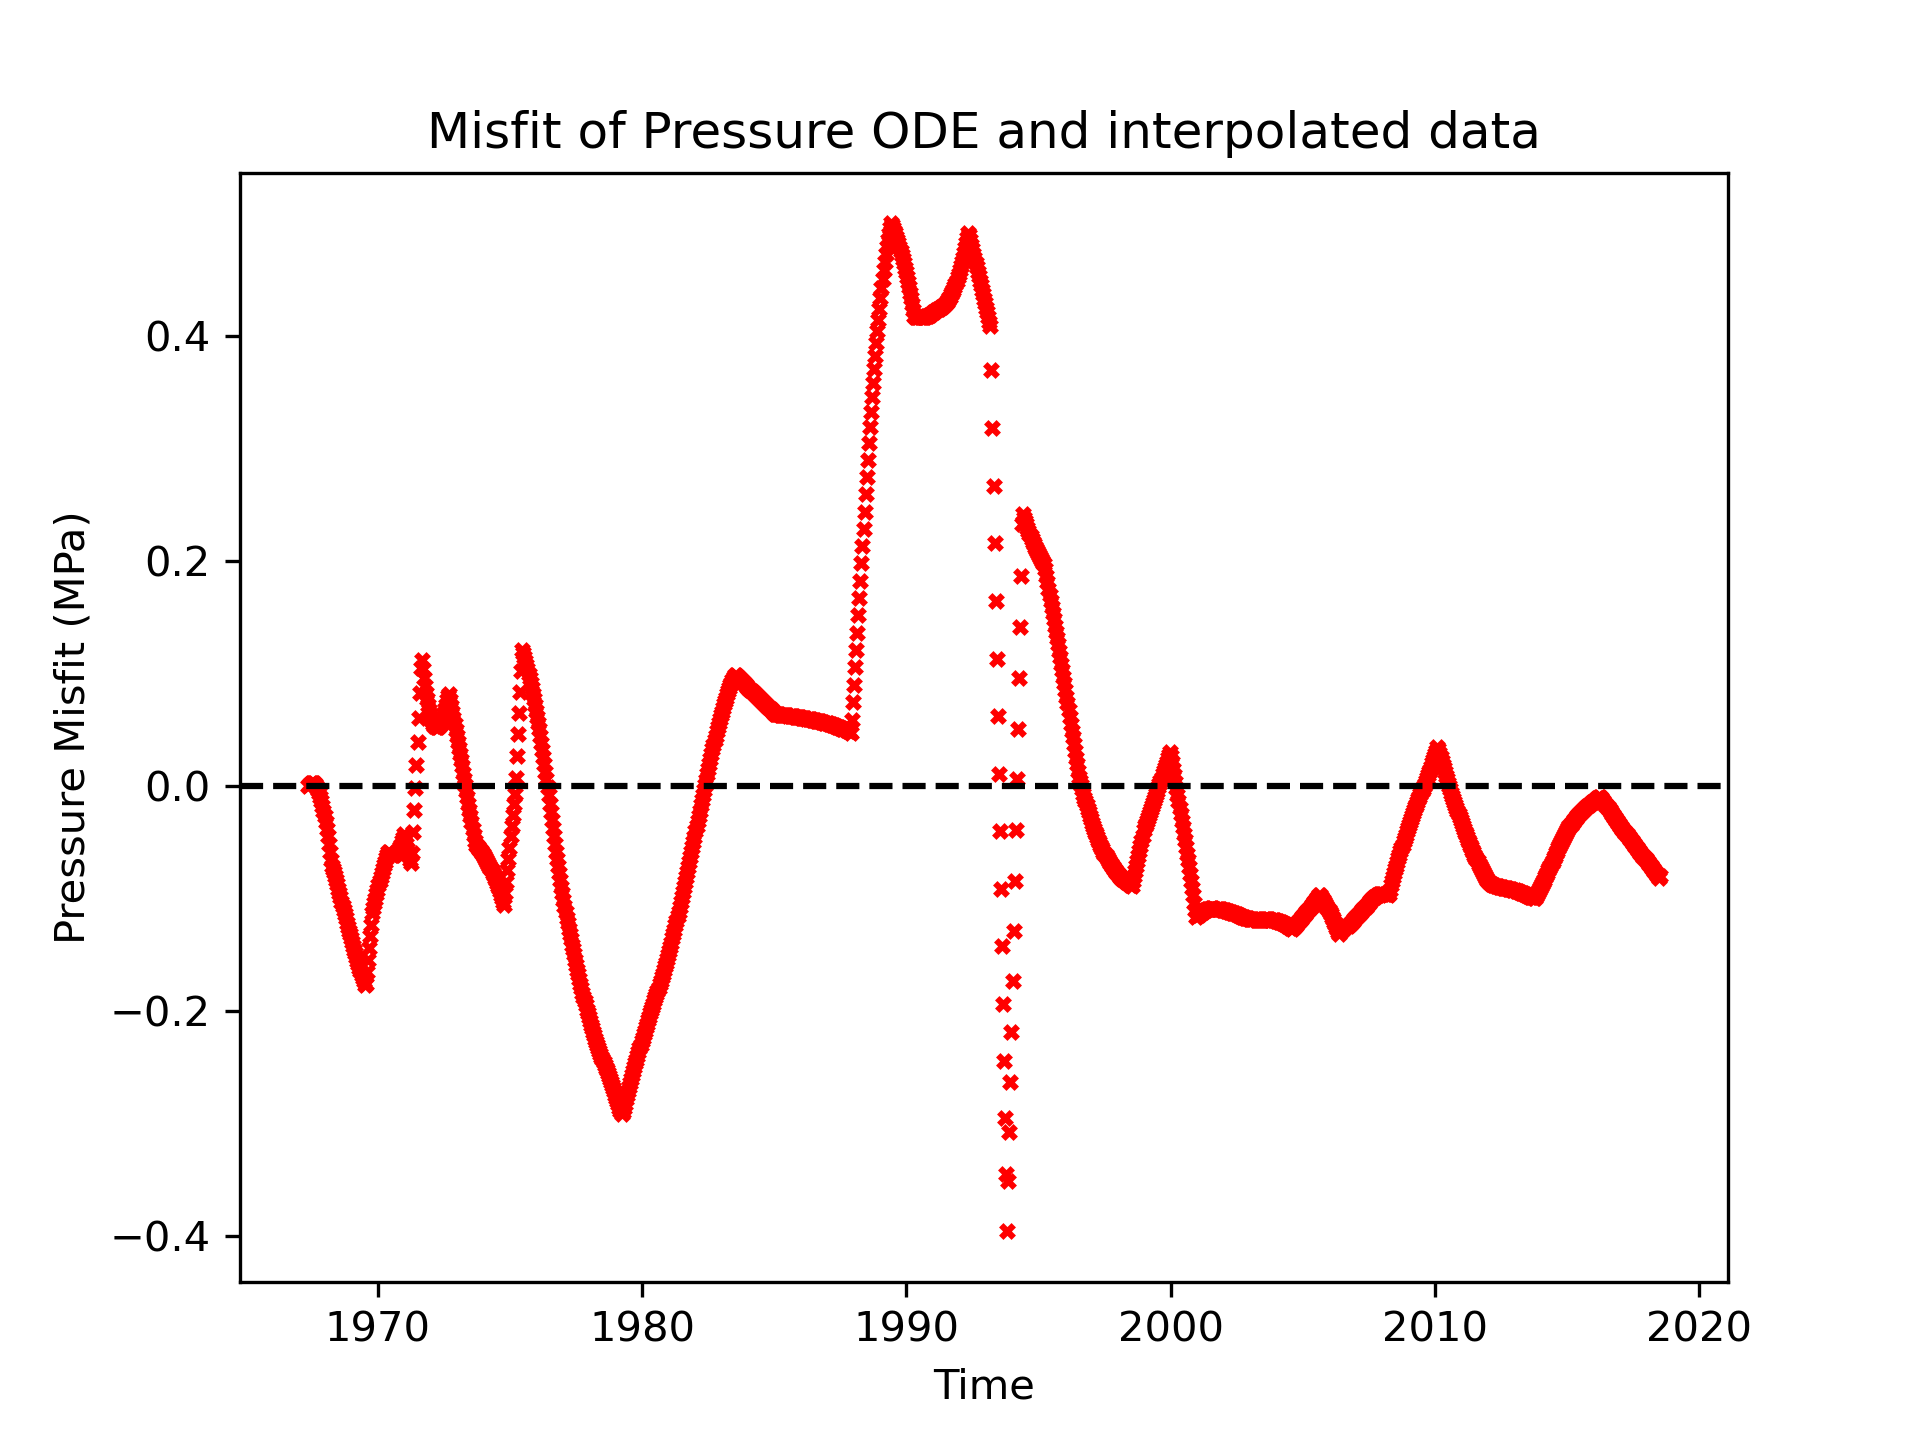
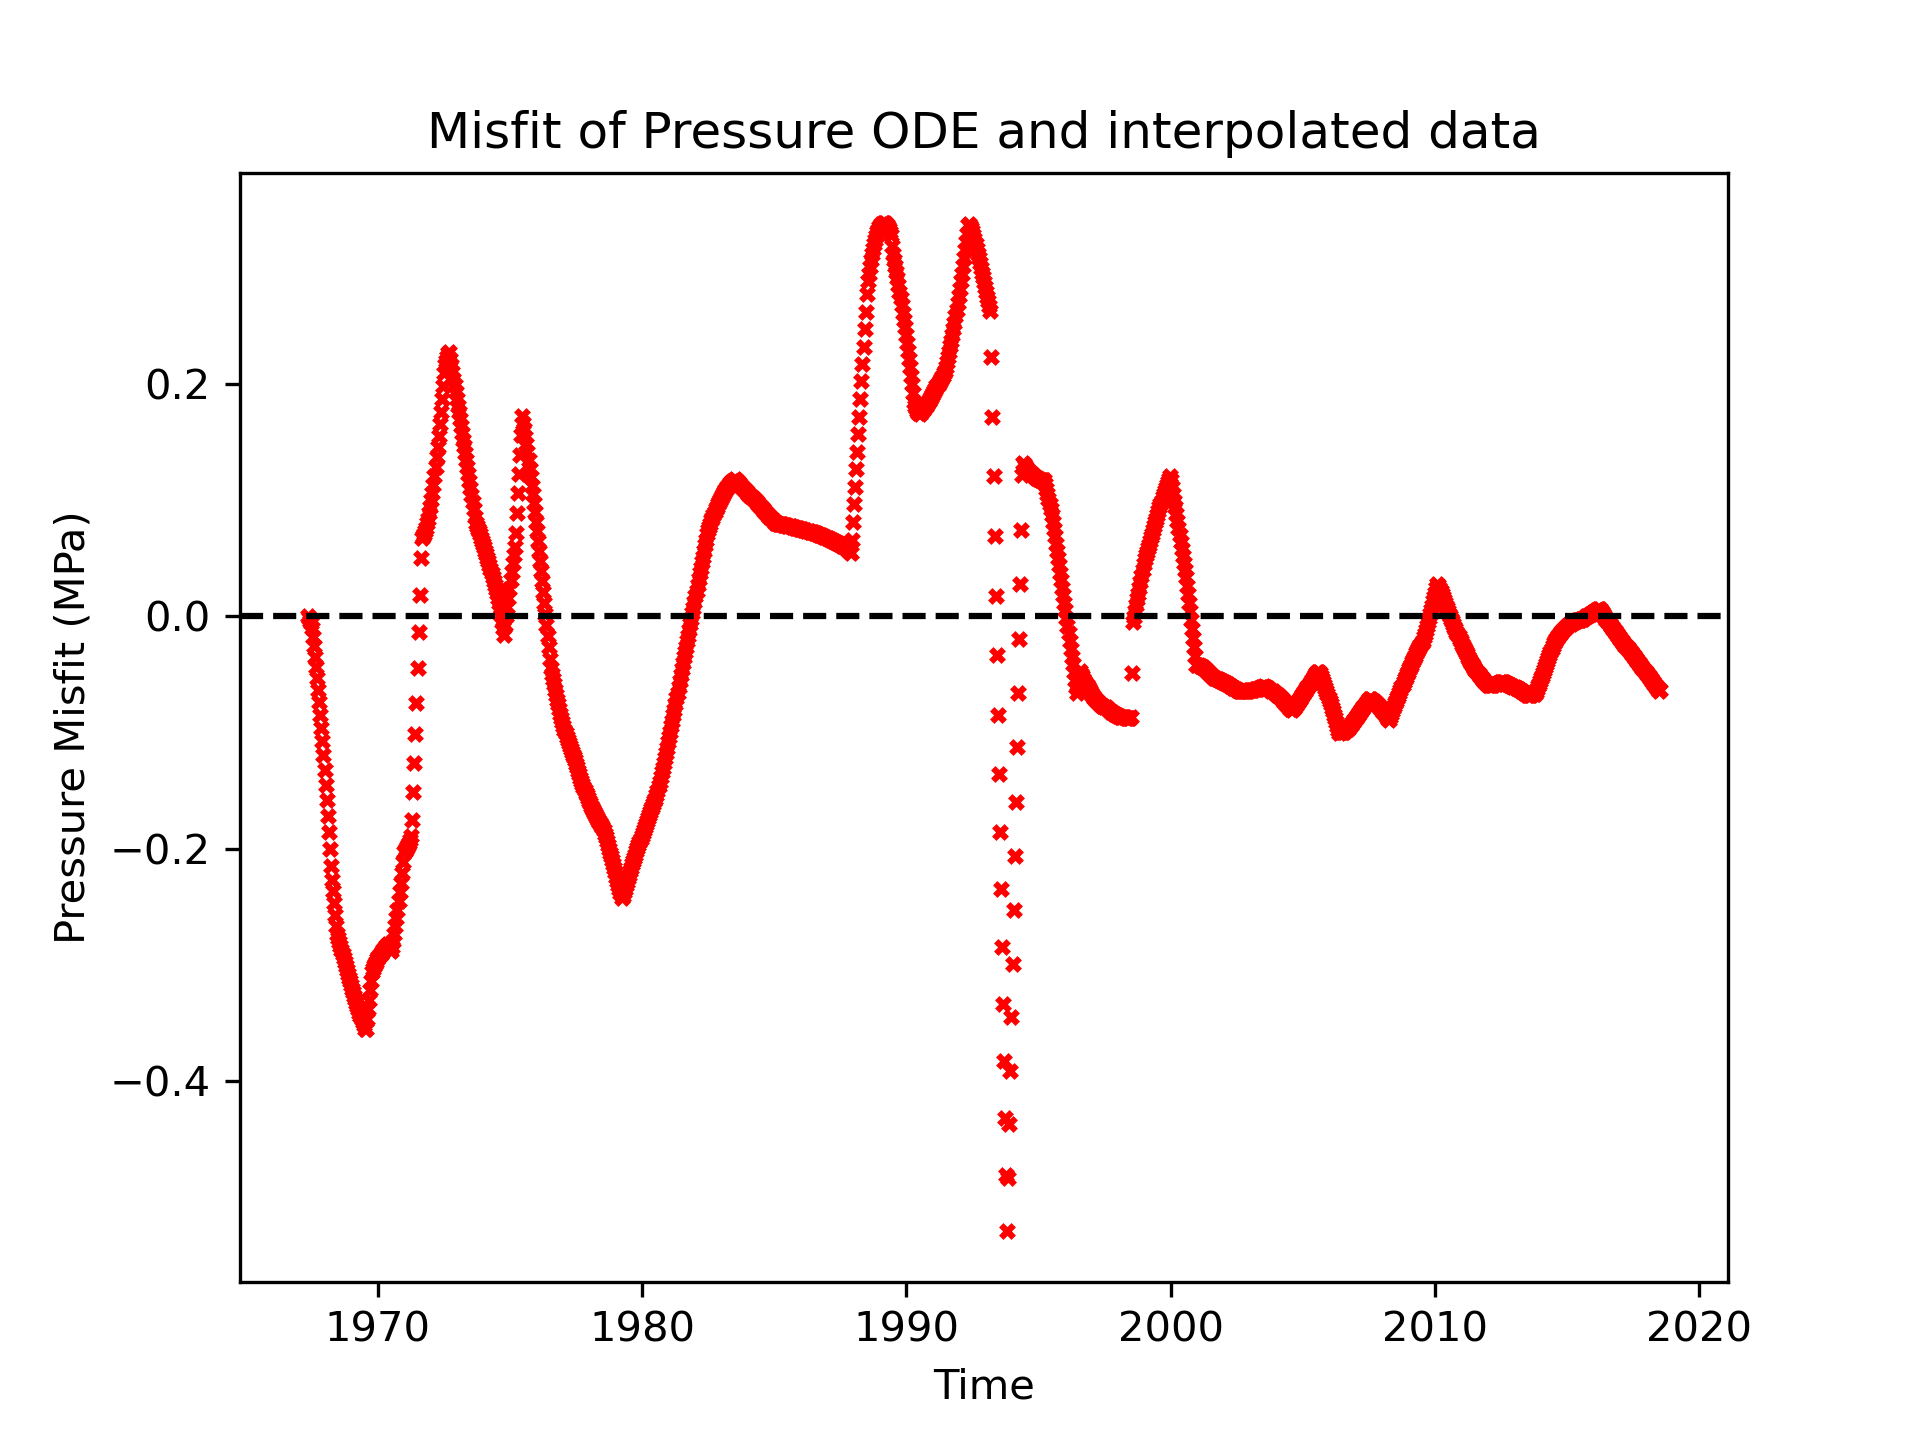
final check before submission.

diff --git a/project_1/main.py b/project_1/main.py
@@ -21,7 +21,6 @@ PARS_C = [a, b, d, m0]
 STEP = 0.04
 v=0.1
 
-
 # Pressure benchmarking plotter
 def plot_pressure_benchmark():
     """
@@ -46,10 +45,12 @@ def plot_pressure_benchmark():
     # plot the data observations
     ax1.scatter(TIME_P, PRESSURE, color='r', marker = 'x', label ='Observations')
     ax1.axvline(t_ode[calibrationPointP], linestyle = ':', label = 'Calibration Point')
-
+    pars_formatted = []
+    for i in range(len(PARS_P)):
+        pars_formatted.append(np.format_float_scientific(PARS_P[i], precision = 3))
     # plot the model solution
     ax1.plot(t_ode, p_ode, color = 'k', label = 'ODE')
-    ax1.set_title('Pressure ODE vs Data')
+    ax1.set_title('Pressure ODE vs Data\n a=%s b=%s c=%s'% (pars_formatted[0],pars_formatted[1],pars_formatted[2]))
     ax1.set_ylabel("Pressure(MPa)")
     ax1.set_xlabel("Year")
     ax1.legend()
@@ -71,9 +72,7 @@ def plot_pressure_benchmark():
     ## Plot analytical solution and numerical solver solution against eachother
     ax2.plot(t_odeA, p_odeA, color = 'black', label = 'ODE')
     ax2.scatter(time, p_ana, color = 'r', marker = 'x', label = 'Analytical Solution')
-    pars_formatted = []
-    for i in range(len(PARS_P)):
-        pars_formatted.append(np.format_float_scientific(PARS_P[i], precision = 3))
+
     ax2.set_title('Pressure ODE vs Analytical solution  \n a=%s b=%s c=%s q=4.00'% (pars_formatted[0],pars_formatted[1],pars_formatted[2]))
     ax2.legend()
     ax2.set_xlabel("Year")
@@ -135,18 +134,21 @@ def plot_conc_benchmark():
     """
     PLOT DATA vs ODE
     """
+    parsc_formatted = []
+    for i in range(len(PARS_C)):
+        parsc_formatted.append(np.format_float_scientific(PARS_C[i], precision = 3))
     t_ode, c_ode = solve_conc_ode(conc_ODE_model, TIME_C[0], CONC[0], TIME_C[-1], STEP, PRESSURE[0], PARS_C)
     plt.plot(t_ode, c_ode * 100,color = 'black', label = 'ODE')
     plt.scatter(TIME_C, CONC * 100,color='r', marker = 'x', label ='Observations')
     plt.legend()
-    plt.title('Concentration ODE vs Data')
+    plt.title('Concentration ODE vs Data\n a=%s b=%s d=%s m0=%s'% (parsc_formatted[0], parsc_formatted[1],parsc_formatted[2], parsc_formatted[3]))
     plt.xlabel('Year')
     plt.ylabel('Concentration (% weight)')
     plt.savefig('model_vs_data_conc', dpi = 300)
     plt.show()
 
     #### Benchmark numerical(ode) solution against analytical solution
-    time, c_ana = conc_analytical_solution(m0, d)
+    time, c_ana = conc_analytical_solution(PARS_C[3], PARS_C[2])
     # plot analytical solution
     plt.plot(time, c_ana,  color = 'r', marker = 'x', label = 'Analytical Solution')
     # plot the model solution
@@ -244,7 +246,7 @@ def plot_model_predictions():
     labels = ['qc02 = 0.0 kg/s', 'qc02 = %.2f kg/s',  'qc02 = %.2f kg/s ','qc02 = %.2f kg/s ','qc02 = %.2f kg/s'] #for graph
 
     c02_groundwater_leaks = np.zeros((len(injRates), len(ts)))
-
+    print("Forecasting results")
     for i in range(len(injRates)):
         q_net = q_prod[-1] - (q_inj[-1])*injRates[i]
         q_newInj = (q_inj[-1])*injRates[i]
@@ -255,7 +257,11 @@ def plot_model_predictions():
             if (p[j] > PRESSURE[0]):
                 c02_groundwater_leaks[i, j] = (PARS_P[1] / PARS_P[0]) * (p[j] - PRESSURE[0]) * c[j]
         #c02_groundwater_leaks[i, :] = np.cumsum(c02_groundwater_leaks[i, :])
-
+        print('------')
+        print("injection rate %.2f" %q_newInj)
+        print("pressure %.2f"% p[-1])
+        print("concentration %.4f"% c[-1])
+    print('------')
 
 
     ax2.axhline(0.10, linestyle = "--", color = 'grey', label = '10 wt% C02' )    #ax1.axvline(t_ode[calibrationPointP], linestyle = '--', label = 'Calibration Point')
@@ -564,7 +570,7 @@ def plot_uncertainty_forecast(samples):
     ax2.axvline(tc[calibrationPointC], color='b', linestyle=':', label='Calibration Point')
 
     ax1.errorbar(TIME_P, PRESSURE, yerr=0.6,fmt='ro', elinewidth = 0.3, label='Pressure Data')
-    ax2.errorbar(TIME_C, CONC, yerr=0.005, fmt='ro',elinewidth = 0.3, label='Pressure Data')
+    ax2.errorbar(TIME_C, CONC, yerr=0.005, fmt='ro',elinewidth = 0.3, label='Concentration Data')
 
     # Set up paramters for forecast
     endTime = TIME_P[-1] + 30                     # 30 years projection
@@ -595,6 +601,9 @@ def plot_uncertainty_forecast(samples):
     cUncertaintyRange = [[0,0] for i in range(5)]
     pValues = [[] for i in range(5)]
     cValues = [[] for i in range(5)]
+    p_finals = np.zeros([len(injRates), len(samples)])
+    c_finals = np.zeros([len(injRates), len(samples)])
+
 
     for d, m0, a, b, c in samples:
         pars_c = [a, b, d, m0]
@@ -603,32 +612,32 @@ def plot_uncertainty_forecast(samples):
             q_net = q_prod[-1] - (q_inj[-1])*injRates[i]
             q_newInj = (q_inj[-1])*injRates[i]
             t, p, c = get_p_conc_forecast(ts, pars_c, pars_p, pm[-1], cm[-1], q_net, q_newInj)
-
+            p_finals[i][j] = p[-1]
+            c_finals[i][j] = c[-1]
             pValues[i].append(p[-1])
             cValues[i].append(c[-1])
 
             ax1.plot(t, p, color=colours[i],alpha= 0.2, linewidth = 1)
             ax2.plot(t, c, color=colours[i], alpha= 0.2,linewidth = 1)
         j = j + 1
-    print("pressure")
-    p_mins = p_finals.min(axis =1)
-    p_maxs = p_finals.max(axis =1)
-    print(p_mins)
-    print(p_maxs)
-    print("conc")
-    c_mins = c_finals.min(axis =1)
-    c_maxs = c_finals.max(axis =1)
-    print(c_mins)
-    print(c_maxs)
+
+    # print conf intervals
+    print("Confidence intervals")
+    for i in range(len(injRates)):
+        print("-------")
+        print("Injection rate " ,(injRates[i])*q_inj[-1])
+        p_conf = np.percentile(p_finals[i][:],  [5, 95], axis = 0)
+        c_conf = np.percentile(c_finals[i][:], [5,95], axis = 0)
+
+        print("pressure")
+        print(p_conf)
+        print("conc")
+        print(c_conf)
+    print("-------")
+
     np.savetxt('final pressure uncertainty.csv', p_finals)
     np.savetxt('final conc uncertainty.csv', c_finals)
-        for i in range(5):
-            pUncertaintyRange[i][0], pUncertaintyRange[i][1] = st.t.interval(alpha=0.95, df=len(pValues[i])-1, loc=np.mean(pValues[i]), scale=st.sem(pValues[i]))
-            cUncertaintyRange[i][0], cUncertaintyRange[i][1] = st.t.interval(alpha=0.95, df=len(cValues[i])-1, loc=np.mean(cValues[i]), scale=st.sem(cValues[i]))
 
-
-        print(pUncertaintyRange)
-        print(cUncertaintyRange)
 
     ax2.axhline(0.10, linestyle = "--", color = 'grey', label = '10 wt% C02' )    #ax1.axvline(t_ode[calibrationPointP], linestyle = '--', label = 'Calibration Point')
     ax1.axhline(PRESSURE[0], linestyle = "--", color = 'grey', label = 'Ambient Pressure P0')
@@ -651,9 +660,9 @@ def plot_uncertainty_forecast(samples):
 
 if __name__ == "__main__":
     plot_pressure_benchmark()
-    #plot_conc_benchmark()
-    #plot_model_predictions()
+    plot_conc_benchmark()
+    plot_model_predictions()
     n_samples = 100
     samples = construct_all_samples(n_samples)
-    #plot_conc_pressure_uncertainty(samples)
+    plot_conc_pressure_uncertainty(samples)
     plot_uncertainty_forecast(samples)

diff --git a/project_1/lpm_model_functions.py b/project_1/lpm_model_functions.py
@@ -71,9 +71,9 @@ def find_pars_pressure():
     ts = TIME_P[0]+np.arange(nt+1)*STEP			    # initial time array
 
     # initial parameter guesses
-    a = 0.1
+    a = 0.002
     b = 0.1
-    c = 0.1
+    c = 0.001
     pars = [a, b, c]
 
     # make input pressure same length as the output from the solver
@@ -356,8 +356,8 @@ def find_pars_conc():
 
     nt = int(np.ceil((TIME_C[-1]-TIME_C[0])/STEP))		# compute number of Euler STEPs to take
     ts = TIME_C[0]+np.arange(nt+1)*STEP			    # x array
-    d = 1
-    m0 = 100000
+    d = 0.2
+    m0 = 8000
 
     pars = [d, m0]
     ci = np.interp(ts, TIME_C, CONC)

diff --git a/project_1/uncertainty.py b/project_1/uncertainty.py
@@ -1,7 +1,6 @@
-<<<<<<< HEAD
-=======
+
 from main import *
->>>>>>> refs/remotes/origin/main
+
 from lpm_model_functions import *
 
 
